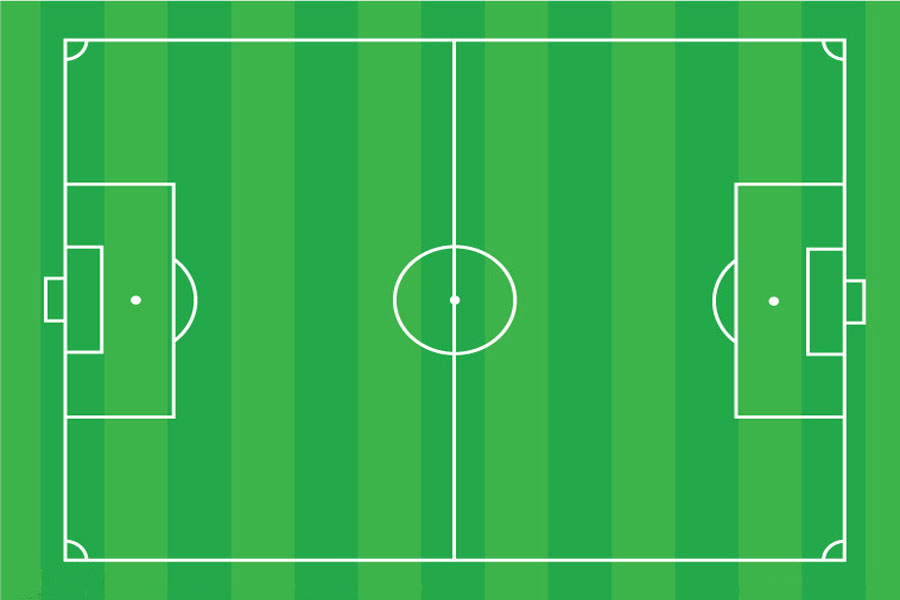
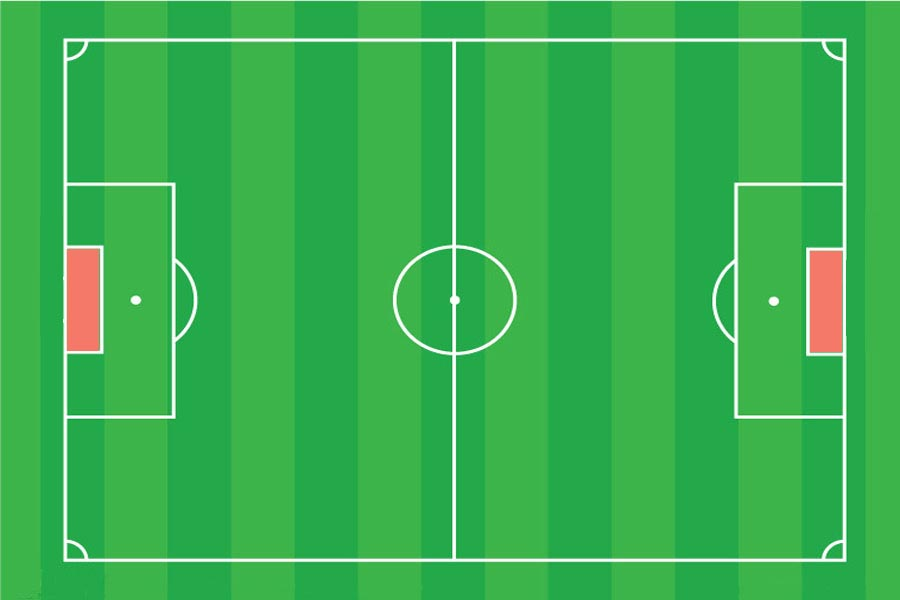
球门颜色 游戏速度 Signed-off-by: Sang Liang <samuellovefree@live.com>

Changed region(s): [[0.8711, 0.39, 0.9644, 0.6], [0.0311, 0.39, 0.1244, 0.6]]

diff --git a/Games/js/Main.js b/Games/js/Main.js
@@ -1,6 +1,5 @@
 
-init(50,"gamePanel",900,600,main);
-
+init(20,"gamePanel",900,600,main);
 
 
 //-------游戏场景------
@@ -21,8 +20,6 @@ var imgData=[
 var showFlag=[];//游戏国旗面板
 var sound;//音乐控制
 var BoundTop;//游戏边界
-
-
 //计分牌
 var scoreNumberLeft;
 var scoreNumberRight;
@@ -44,7 +41,7 @@ addChild(backGroundLayer);
 
 loadingLayer=new LoadingSample1();
 backGroundLayer.addChild(loadingLayer);
-    Bound();
+   
 LLoadManage.load(
 	imgData,
 	function (progress){
@@ -191,9 +188,9 @@ function gamePage(){
         scoreNumberLeft = new LTextField();
         scoreNumberLeft.text="0";
         scoreNumberLeft.color="#FFF";
-        scoreNumberLeft.size="15";
+        scoreNumberLeft.size="18";
         scoreNumberLeft.x=317;
-        scoreNumberLeft.y=10;
+        scoreNumberLeft.y=7;
 
 
      	resultArgentina.text = '阿根廷';
@@ -208,9 +205,9 @@ function gamePage(){
         scoreNumberRight = new LTextField();
         scoreNumberRight.text="0";
         scoreNumberRight.x=380;
-        scoreNumberRight.y=10;
+        scoreNumberRight.y=7;
         scoreNumberRight.color="#FFF"
-        scoreNumberRight.size="15";
+        scoreNumberRight.size="18";
 
      	resultBrazil.text = '巴西';
      	resultBrazil.weight = 'bolder';
